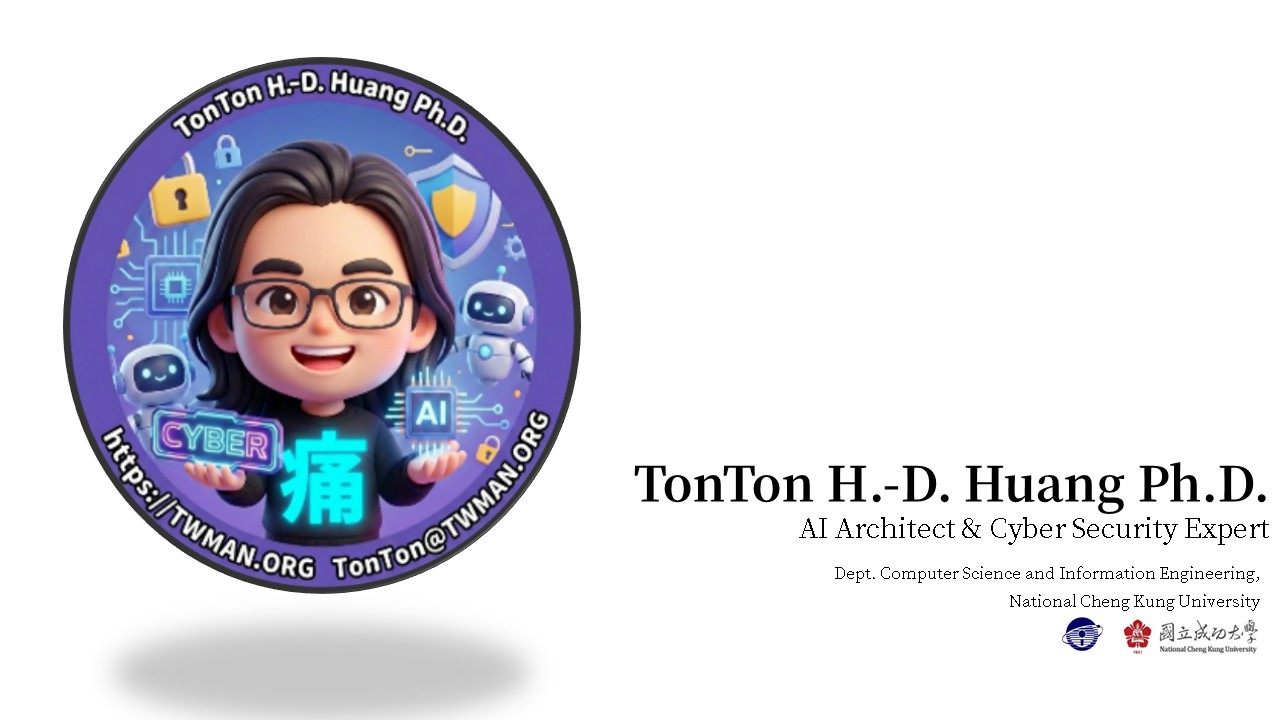
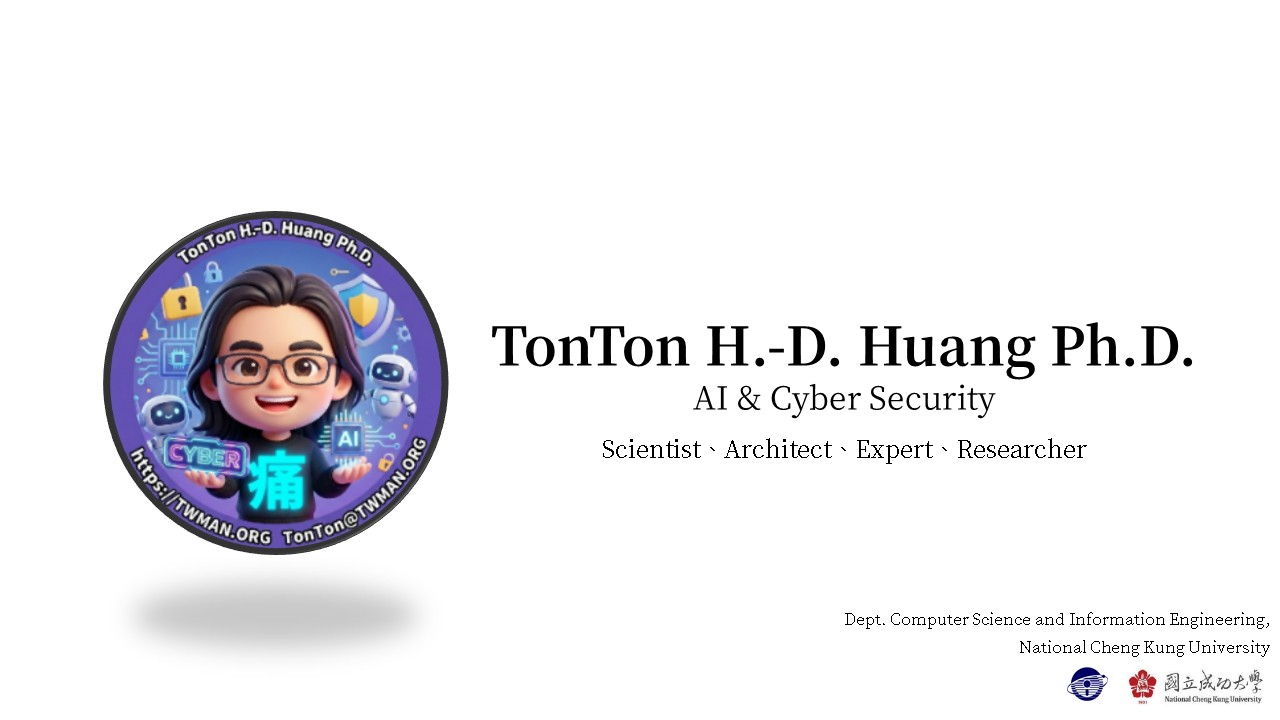
更新圖片描述以提升可讀性

diff --git a/index.html b/index.html
@@ -491,10 +491,10 @@
         
         <!-- 摺疊的內容：第二張以後的圖片放這裡 -->
         <div class="mt-4 space-y-4">
-             <img src="./img/TonTon-001.jpg" alt="全棧技術實力" class="w-full h-auto rounded-lg shadow-sm border border-slate-200">
-            <img src="./img/TonTon-002.JPG" alt="Case Studies I" class="w-full h-auto rounded-lg shadow-sm border border-slate-200">
-            <img src="./img/TonTon-003.JPG" alt="Case Studies II" class="w-full h-auto rounded-lg shadow-sm border border-slate-200">
-            <img src="./img/TonTon-004.JPG" alt="前瞻研究發表" class="w-full h-auto rounded-lg shadow-sm border border-slate-200">
+             <img src="./img/TonTon-001.jpg" alt="TonTon Huang Ph.D." class="w-full h-auto rounded-lg shadow-sm border border-slate-200">
+            <img src="./img/TonTon-002.jpg" alt="前瞻研究發表" class="w-full h-auto rounded-lg shadow-sm border border-slate-200">
+            <img src="./img/TonTon-003.jpg" alt="深耕社群" class="w-full h-auto rounded-lg shadow-sm border border-slate-200">
+            <img src="./img/TonTon-004.jpg" alt="Case Studies" class="w-full h-auto rounded-lg shadow-sm border border-slate-200">
         </div>
     </details>
 </div>
